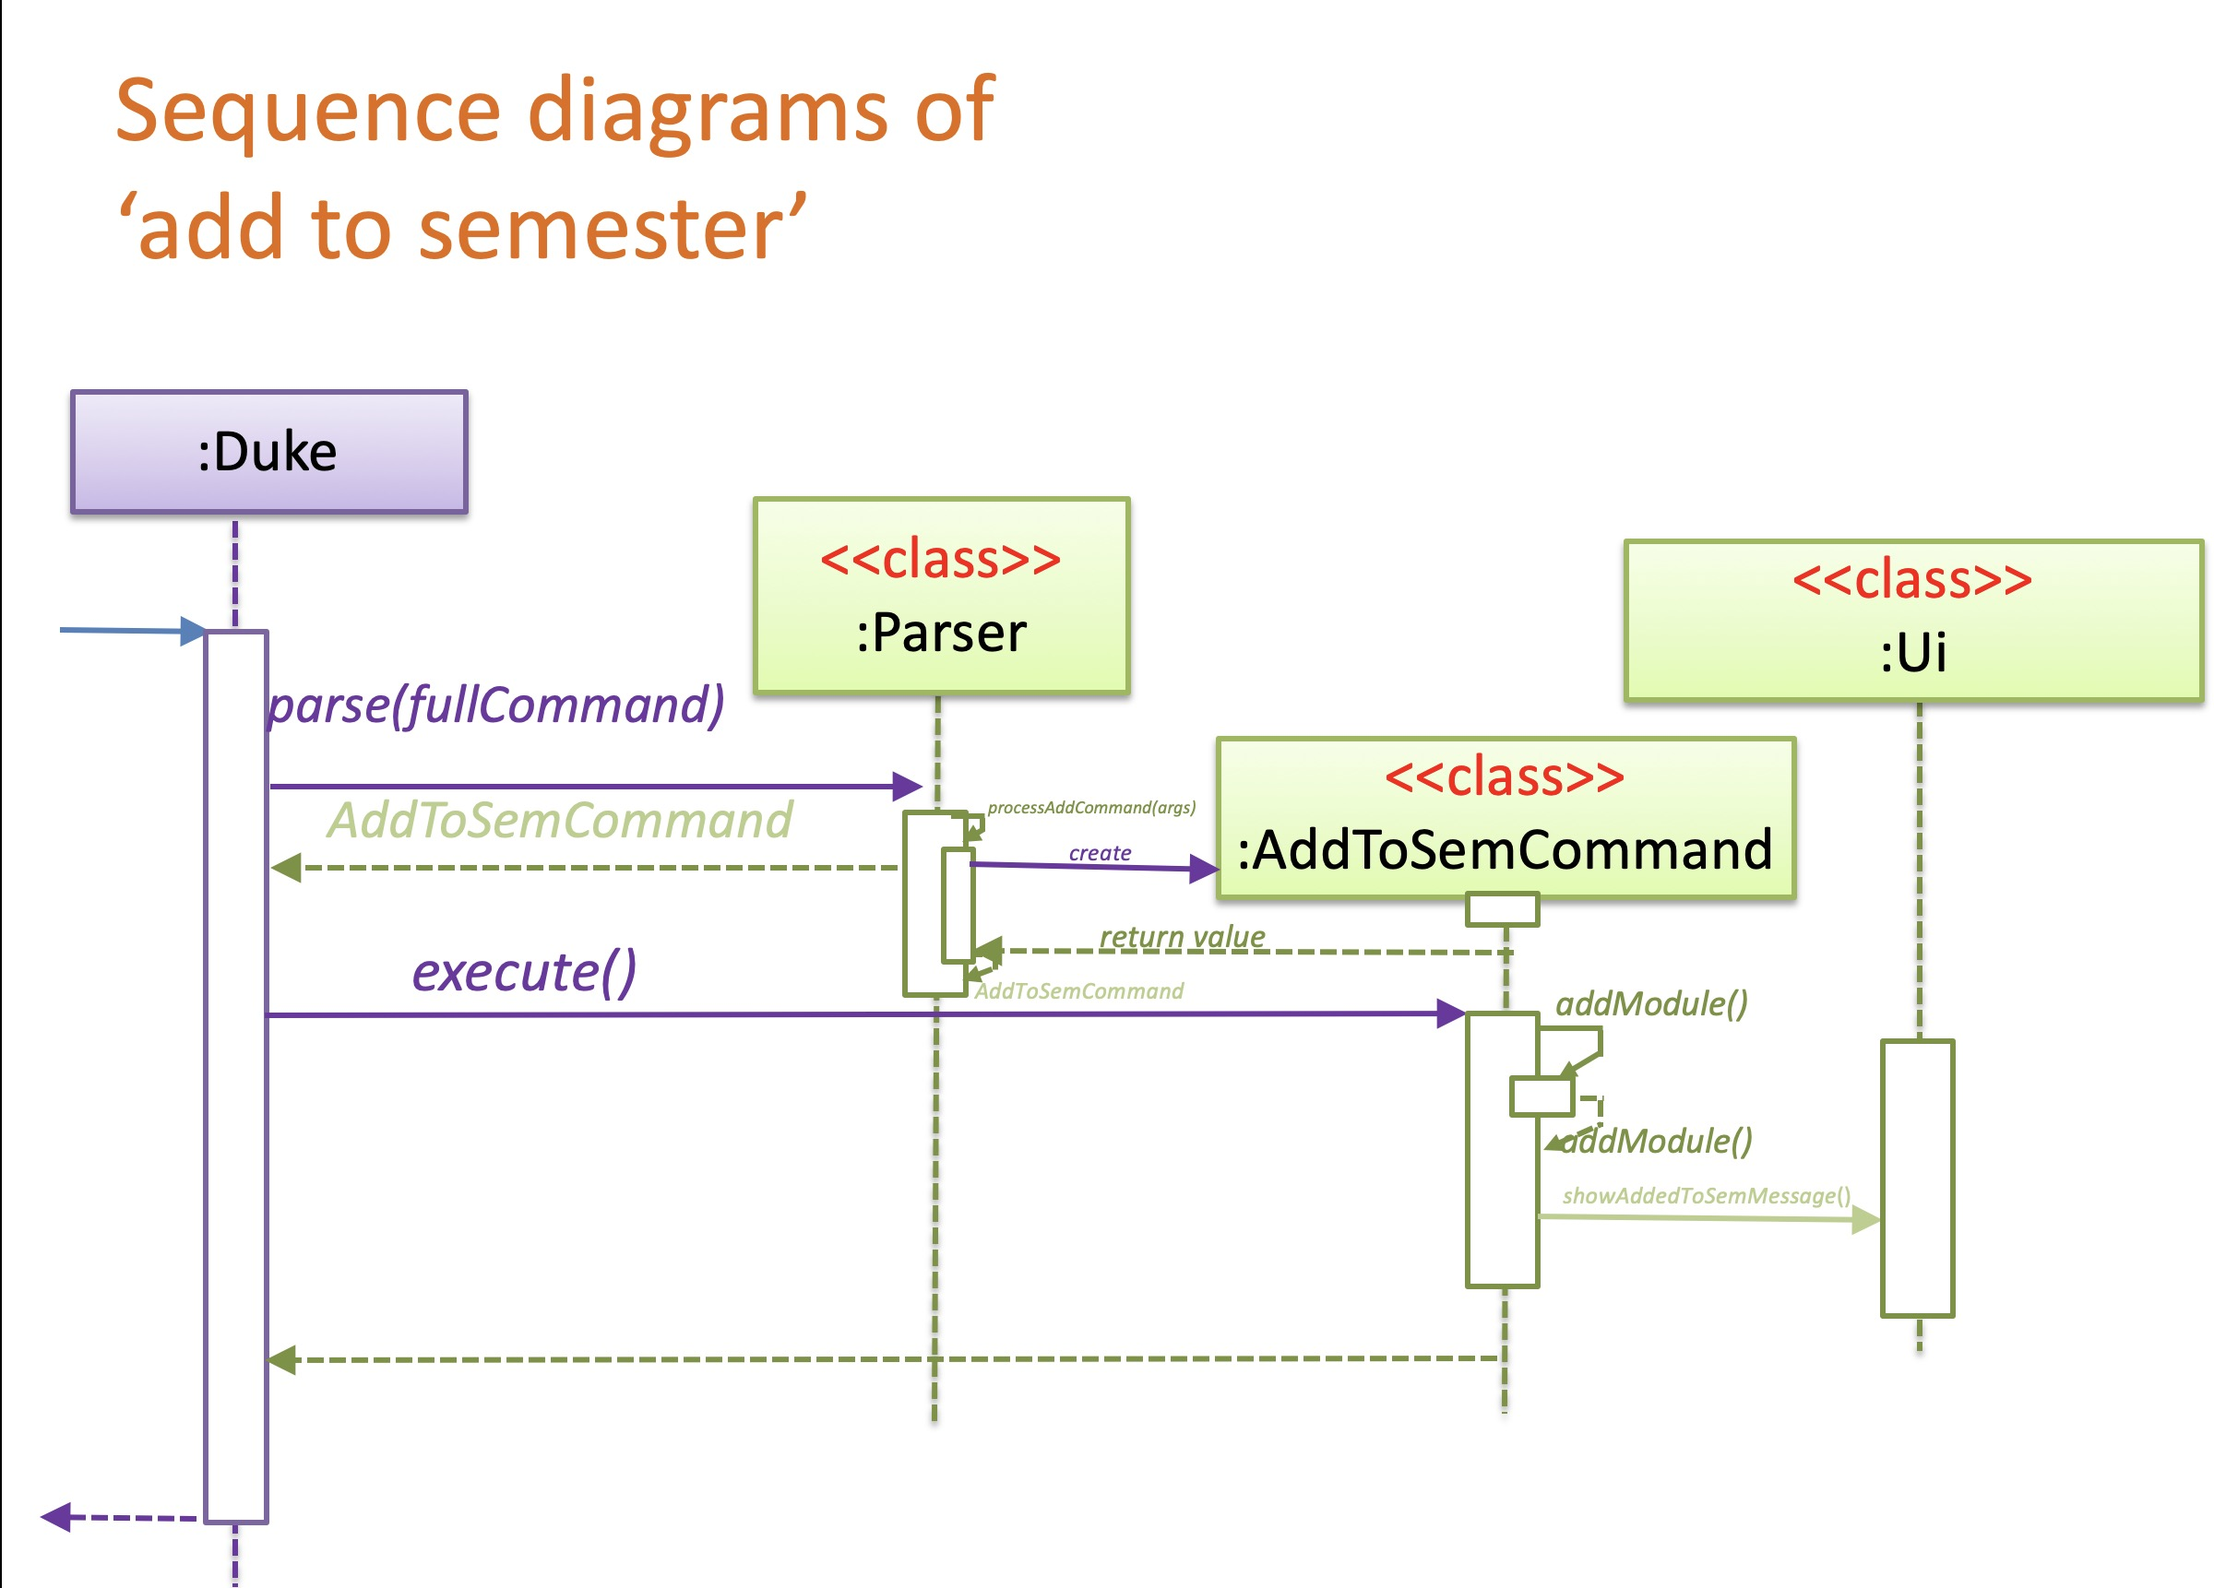
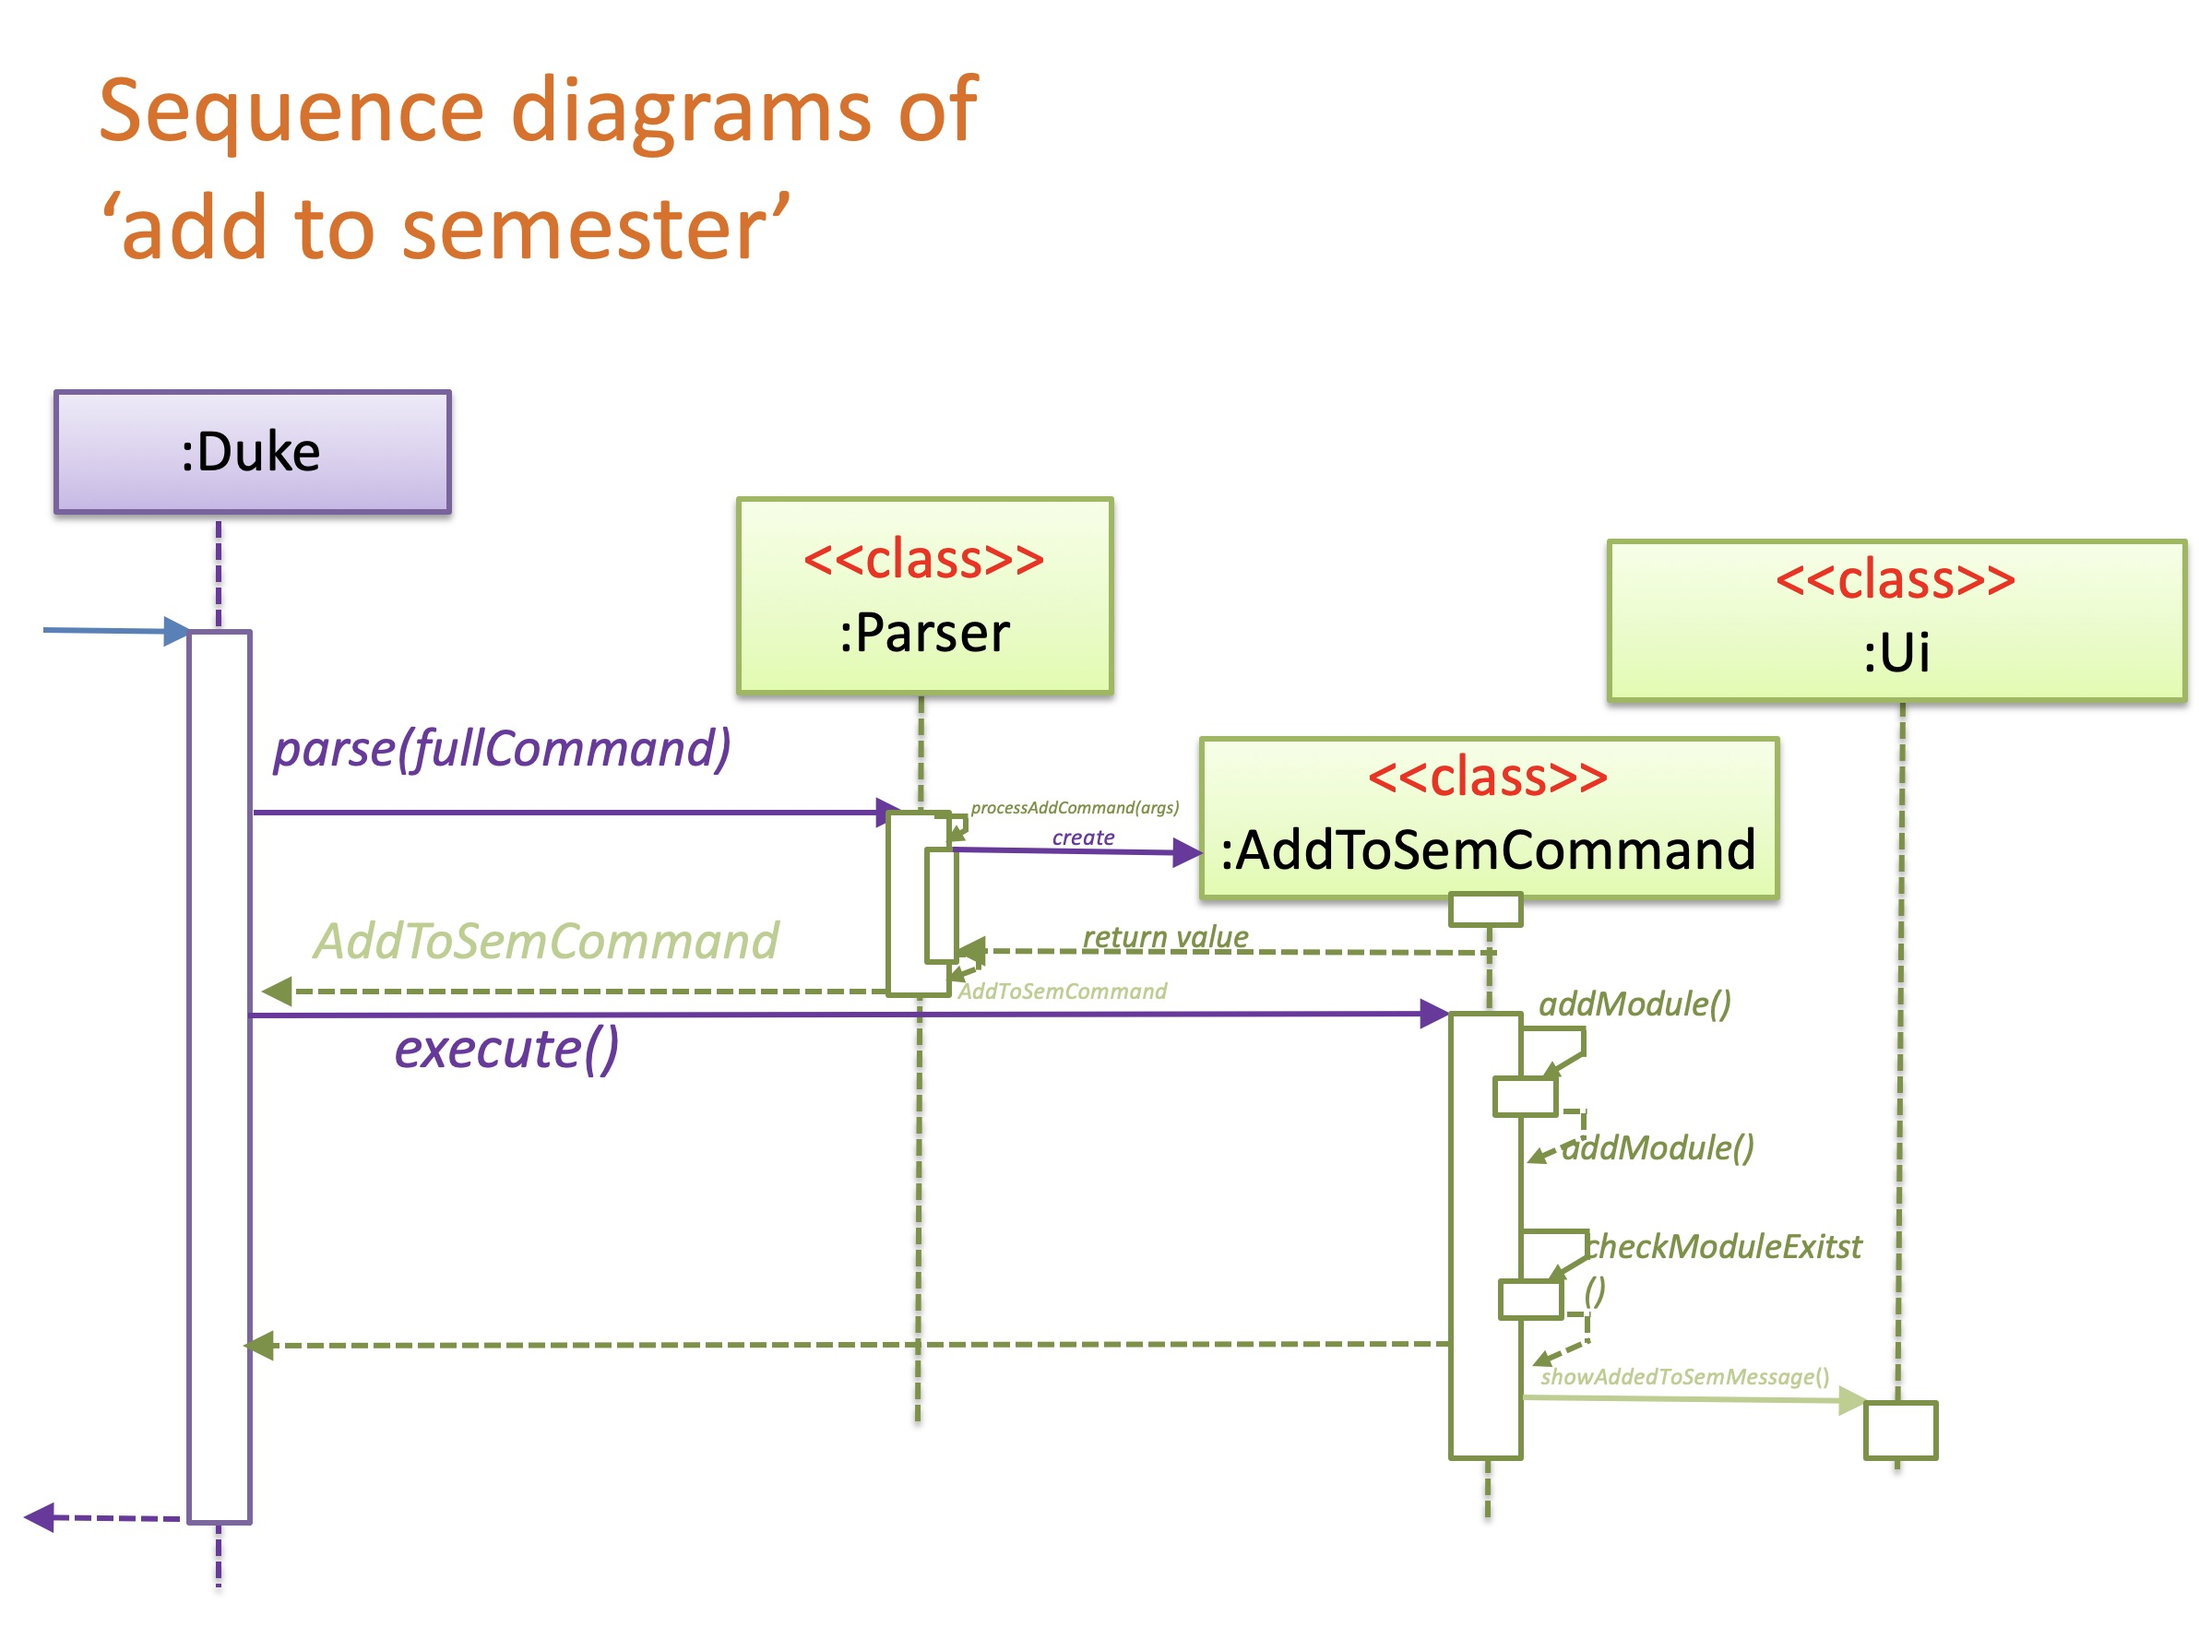
Update DG

Changed region(s): [[0.0, 0.2154, 1.0, 1.0], [0.031, 0.0308, 0.4656, 0.1847]]

diff --git a/docs/DeveloperGuide.md b/docs/DeveloperGuide.md
@@ -64,20 +64,22 @@ The user launches the application for the first time. The `SemesterList` will be
 
 ##### Step 2:
 When users enter a add to semester command, e.g `add id/CS2113 s/4 mc/4`, this command will be parsed in `Parser`
-and then `Parser` returns a `AddToSemCommand`. `AddToSemCommand` then calls `Command#excuted(SemesterList semesterList,
+and then `Parser` returns a `AddToSemCommand`. `AddToSemCommand` then calls `Command#execute(SemesterList semesterList,
  AvailableModulesList availableModulesList) `
-`(AddToSemCommand#excuted(SemesterList semesterList, AvailableModulesList availableModulesList))`
+`(AddToSemCommand#execute(SemesterList semesterList, AvailableModulesList availableModulesList))`
 
 ##### Step 3:
-`AddToSemCommand#excuted()` then calls self method `AddToSemCommand#addModule()`.`AddToSemCommand#addModule()`
+`AddToSemCommand#execute()` then calls self method `AddToSemCommand#addModule()`.`AddToSemCommand#addModule()`
  then calls `AddToSemCommand#checkModuleExist(semesterList)` to check whether the selected 
-module is already in the selected module list (which is`semesterList`). If the module is not in the list, 
-`AddToSemCommand#addModule()` will check whether there is a semester list whose name is the module's semester name. If 
-the semester list exist, the module will be added to the list. If not, `AddToSemCommand#addModule()` will create a new 
-semester list and then add this module to the new list.
+module is already in the selected module list (i.e:`semesterList`, which is a `PriorityQueue<SemModulesList>`). 
+If the module is not in the list, `AddToSemCommand#addModule()` will check whether there is a semester list
+(i.e:`semesterModulesList`, which is a `ArrayList<SelectedModule>`) whose name is the module's semester name. 
+If the semester list exist, the module will be added to the list. 
+If not, `AddToSemCommand#addModule()` will create a new semester list and then add this module to the new list. and the
+the new semester list will be added to `semesterList` as well.
 
 #### Step 4:
-`AddToSemCommand#excuted()` calls `Ui.showAddedToSemMessage(selectedModule.announceAdded())` to show the result to the 
+`AddToSemCommand#execute()` calls `Ui.showAddedToSemMessage(selectedModule.announceAdded())` to show the result to the 
 user
 
 The following sequence diagram shows how the `Add to Semester` operation works:
